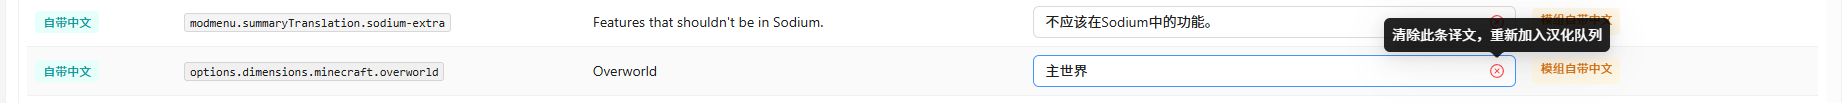
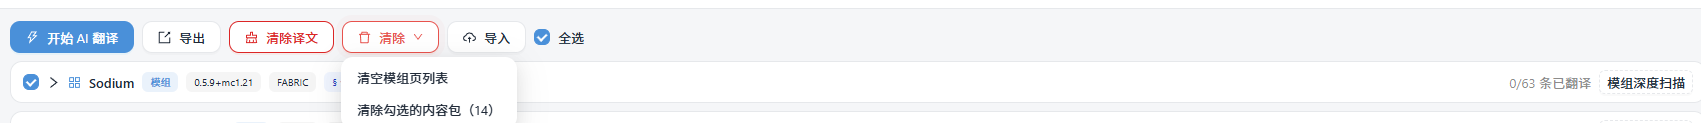
docs: README 更新 v2.3.0——游戏目录模式章节与新截图、版本记录补全动效/调度命名/导入优化

diff --git a/README.md b/README.md
@@ -37,7 +37,7 @@
 ---
 
 
-MC 汉化工坊基于 Tauri v2 + React + TypeScript + Rust 构建，当前发布 Windows x64 安装包，其他平台可从源码自行构建。将模组 jar、光影包或资源包拖入窗口，即可自动解析可翻译文本，结合上下文完成 AI 汉化，并导出为汉化资源包、汉化后的模组 jar 或汉化光影包。
+MC 汉化工坊基于 Tauri v2 + React + TypeScript + Rust 构建，当前发布 Windows x64 安装包，其他平台可从源码自行构建。将模组 jar、光影包或资源包拖入窗口，即可自动解析可翻译文本，结合上下文完成 AI 汉化，并导出为汉化资源包、汉化后的模组 jar 或汉化光影包。v2.3 新增游戏目录模式：直接扫描 `.minecraft` 按版本批量导入，上千个内容包也可流畅处理。
 
 支持自动解析的文本格式：模组语言文件 `assets/<modid>/lang/*.json`（1.13+）与 `*.lang`（1.12.2 legacy，兼容 UTF-8 / ISO-8859-1 编码及 `\uXXXX` 转义）；光影包 `shaders/lang/*.lang` 与 `shaders/shaders.properties`；资源包 `pack.mcmeta` 描述（纯文本 / 组件树 / 多语言对象）。此外深度扫描可提取成就、指南（Patchouli）、配置文件与嵌套 jar 中的 JSON / MCMeta / properties / TOML / INI / YAML / TXT 等文本，并兼容语言名大小写变体、条目缩进与整包顶层文件夹包装的 zip。
 
@@ -53,6 +53,7 @@ MC 汉化工坊基于 Tauri v2 + React + TypeScript + Rust 构建，当前发布
 | 功能 | 说明 |
 |---|---|
 | 三类内容包支持 | 拖放导入模组 `.jar`、光影包 `.zip`、资源包 `.zip`，自动探测类型 |
+| 游戏目录模式 | 扫描 `.minecraft` / `versions` / 任意文件夹，按版本分组展示模组、资源包、光影包；勾选一键入队，跨版本译文复用，导出按版本分组；上千个内容包批量导入不卡顿 |
 | 智能解析 | 提取语言文件（JSON / legacy `.lang`）、光影设置文本、资源包描述；硬编码文本深度扫描（成就 / 指南 / 配置 / 嵌套 jar）；兼容大小写、缩进、顶层文件夹包装等结构变体，自带中文自动识别（繁转简） |
 | 条目级选择与批量勾选 | 逐条勾选是否参与翻译与导出，支持拖动框选批量操作 |
 | 译文直接编辑 | 单元格点击即改，单条可清除后重新翻译 |
@@ -72,7 +73,7 @@ MC 汉化工坊基于 Tauri v2 + React + TypeScript + Rust 构建，当前发布
 
 1. **下载安装**：从 [Releases](https://github.com/adssadax-1/mc-content-localizer/releases) 下载 Windows x64 安装包（NSIS 或 MSI），或 clone 源码自行构建。
 2. **配置 API Key**：右上角「设置」→ 选择服务商 → 填入 API Key → 获取模型列表 → 选择模型 → 保存。
-3. **导入内容包**：拖入文件或点击中央区域选择，程序自动识别类型并解析可翻译条目。
+3. **导入内容包**：拖入文件或点击中央区域选择（拖入文件夹会自动切换到游戏目录模式），程序自动识别类型并解析可翻译条目。
 
 ![内容包导入](docs/内容包导入.png)
 
@@ -86,7 +87,7 @@ MC 汉化工坊基于 Tauri v2 + React + TypeScript + Rust 构建，当前发布
 
 ![翻译错误提示](docs/翻译错误提示.png)
 
-5. **人工审校**：在表格中直接修改译文；对不满意的条目可点击右侧清除按钮重新翻译。
+5. **人工审校**：在表格中直接修改译文；工具栏「清除」下拉可清空当前类型列表或清除勾选的内容包，单元格右侧也可单条清除重译。
 
 ![清除译文界面](docs/清除译文.png)
 
@@ -116,9 +117,17 @@ MC 汉化工坊基于 Tauri v2 + React + TypeScript + Rust 构建，当前发布
 
 ### 会话恢复
 
-内容包列表自动缓存：软件崩溃、意外关闭或正常退出后再打开，会询问是否恢复上次的列表（含译文与进度），选择不恢复则清除缓存：
+内容包列表自动缓存：软件崩溃、意外关闭或正常退出后再打开，会询问是否恢复上次的列表（含译文与进度），选择不恢复则清除缓存（自由导入与游戏目录两种模式缓存互不覆盖）：
 
 ![页面恢复](docs/页面恢复.png)
+
+### 游戏目录模式
+
+顶栏切换到「游戏目录」，选择 `.minecraft`、`versions` 或任意文件夹，程序递归找出所有版本分组（模组 / 资源包 / 光影包分列计数）；直接指向 `mods`、`resourcepacks`、`shaderpacks` 或任意内容包文件夹也能识别（`.jar` / `.zip` 按内容自动分类）：
+
+![游戏目录扫描导入](docs/游戏目录扫描导入.png)
+
+左侧版本行可整体勾选，分类与选择面板均可折叠展开、旁边勾选框全选对应范围，全选 / 全不选合并为单个切换按钮；折叠内容不渲染，内容包再多也流畅。勾选后「解析并加入列表」逐包入队，后续翻译、导出与自由导入一致，跨版本、跨包译文自动复用，导出自动按版本建子目录。
 
 ---
 
@@ -132,7 +141,7 @@ MC 汉化工坊基于 Tauri v2 + React + TypeScript + Rust 构建，当前发布
 | 命令调用 | 每次 invoke 的命令 / 参数 / 状态 / 耗时 |
 | 请求/响应 | 发送给模型的 System / User 提示词全文与响应原文 |
 | 重试/降级链 | 429 退避、JSON 模式降级过程可视化 |
-| 多线程调度 | 两级视图：内容包 → 线程，色块 = 批次，闪烁 = 进行中 |
+| 多线程调度 | 两级视图：内容包 → 线程，色块 = 批次，闪烁 = 进行中；条目按「版本 · 类别 · 包名」命名（游戏目录模式） |
 | 故障注入 | 六类结果弹窗、断网 / 模拟 429 / 强制超时 / 延迟注入、时序测试、导出失败 |
 | 解析器测试台 | 粘贴或导入语言文件即时解析，占位符校验，可导出 |
 | 导出预览器 | 不写盘预览 zip 结构、文件名清洗、mcmeta 内容 |
@@ -328,8 +337,11 @@ npm run tauri build -- --no-bundle
 
 ### v2.3.0（2026-09）
 
-- **游戏目录模式交互优化**：版本行旁新增勾选按钮（只管该版本）；版本详情页模组/资源包/光影包分类可折叠展开，分类旁 Checkbox 全选该分类内容包；选择面板版本分组可折叠展开，旁 Checkbox 全选该分组；全选/全不选合并为单个切换按钮（面板内同理）
-- **性能优化**：折叠状态下不渲染子项，减少 DOM 节点，内容包数量大时切换流畅不卡顿
+- **游戏目录模式（新）**：扫描 `.minecraft` / `versions` / 任意文件夹，按版本分组展示模组、资源包、光影包；直接指向 `mods` / `resourcepacks` / `shaderpacks` 或任意内容包文件夹也能识别（`.zip` 按内容自动分类光影 / 资源包）。顶栏新增模式切换，拖入文件夹自动进入该模式；勾选一键解析入队，跨版本、跨包译文自动复用，导出按版本建子目录
+- **游戏目录交互**：版本行 / 分类 / 选择面板分组均可折叠展开，旁边勾选框全选对应范围（版本 / 分类 / 分组），全选与全不选合并为单个切换按钮；折叠内容不渲染，上千个内容包批量导入与浏览不卡顿、不崩溃
+- **界面动效**：侧栏与设置的滑动指示器导航、中央空态与设置面板错峰淡入、开发者工具标签页错峰滑入；动效不跟随系统「减弱动态效果」设置（用户明确开启时始终播放）
+- **开发者工具**：多线程调度与事件流条目按「版本 · 类别 · 包名」命名（游戏目录模式），定位来源更直观
+- **既有功能优化**：自由导入「全选」只作用于当前类型页；清除译文改为下拉（清空当前类型 / 清除勾选的内容包）；批量解析完成弹出汇总；最近游戏目录逐行可删，删除当前目录同步清空扫描结果；条目表格列级缓存优化渲染性能
 
 ### v2.2.0（2026-09）
 
